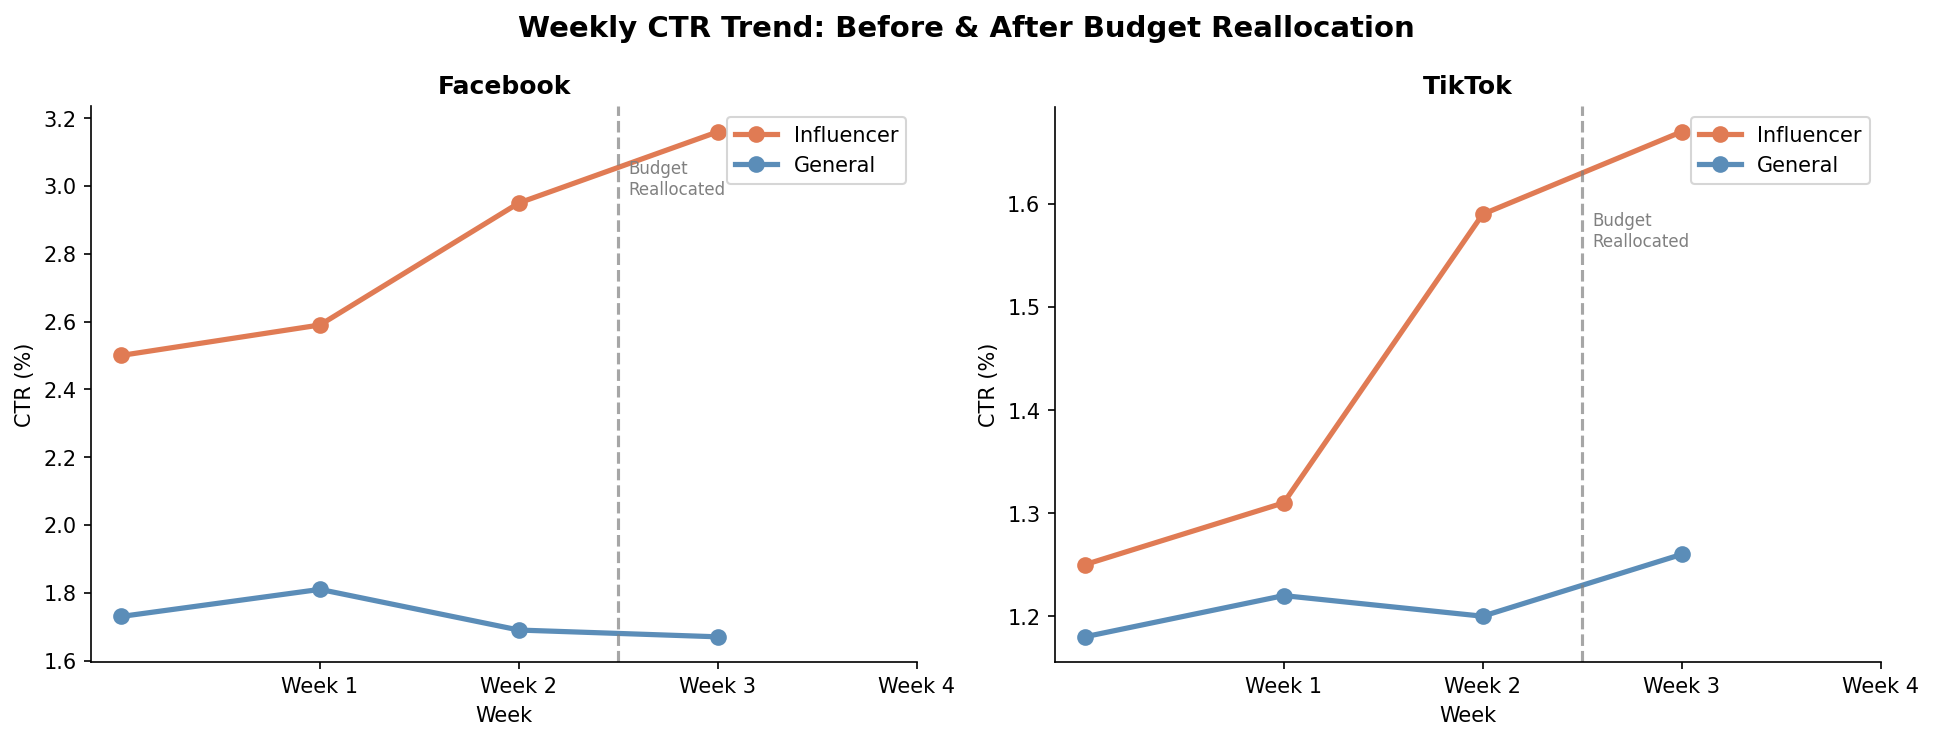
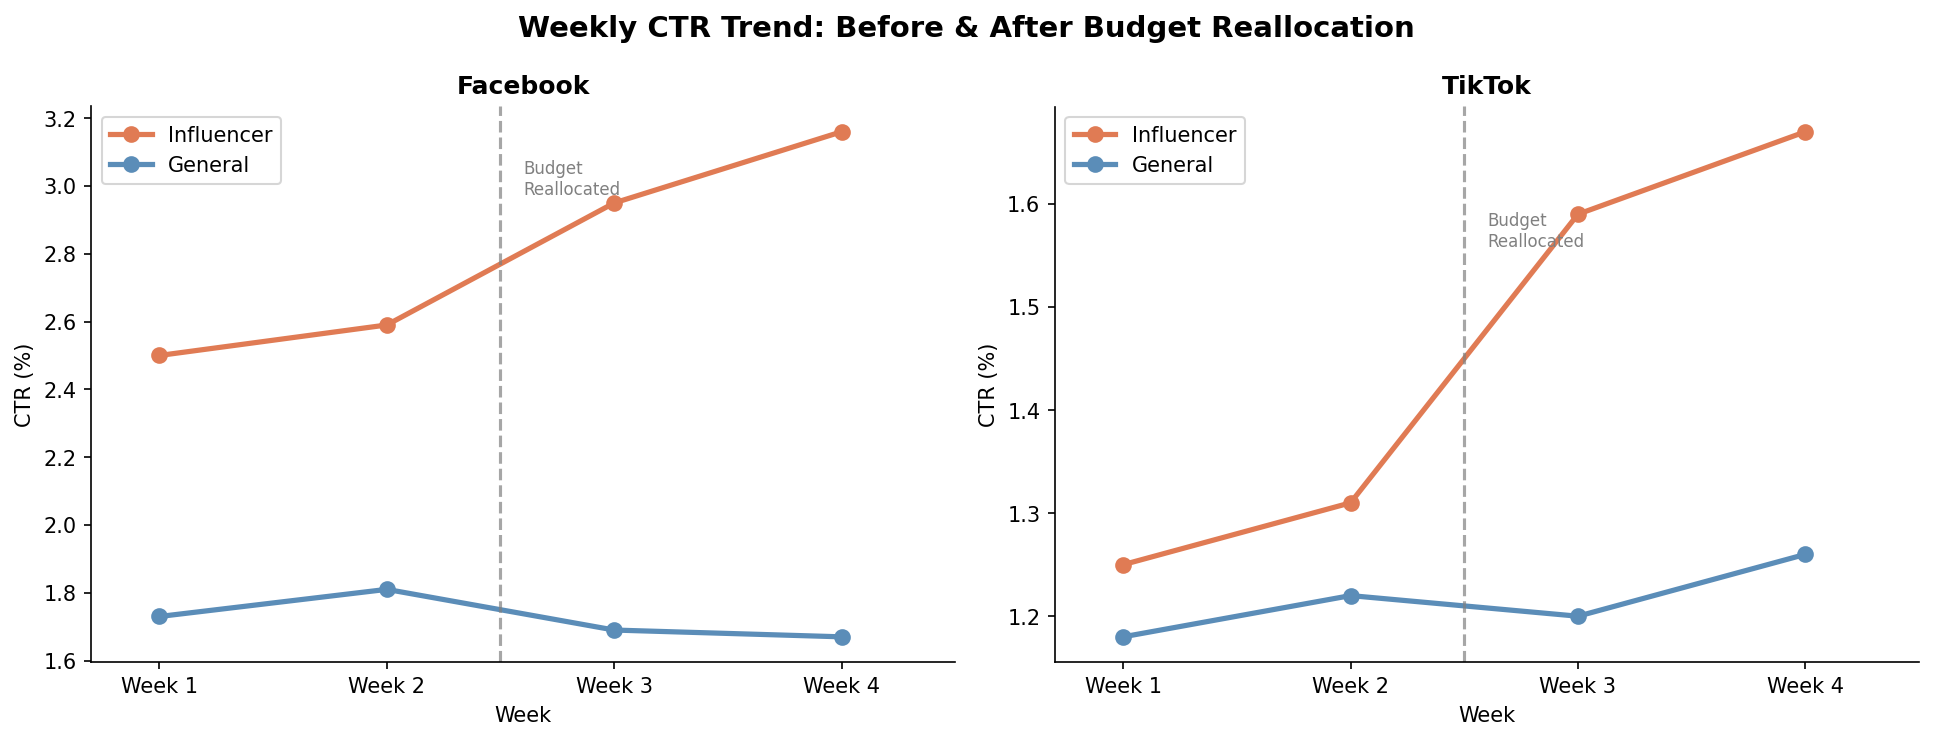
Update

diff --git a/analysis.py b/analysis.py
@@ -72,6 +72,7 @@ fig.suptitle('Weekly CTR Trend: Before & After Budget Reallocation', fontsize=14
 weekly = main_df.groupby(['platform', 'model_type', 'week']).agg(
     avg_ctr=('ctr', 'mean')
 ).reset_index()
+weekly['week'] = weekly['week'].astype(int)
 
 for ax, platform in zip(axes, ['Facebook', 'TikTok']):
     sub = weekly[weekly['platform'] == platform]
@@ -83,12 +84,13 @@ for ax, platform in zip(axes, ['Facebook', 'TikTok']):
 
     # 예산 재배분 시점 표시
     ax.axvline(x=2.5, color='gray', linestyle='--', linewidth=1.5, alpha=0.7)
-    ax.text(2.55, ax.get_ylim()[1] * 0.92 if ax.get_ylim()[1] > 0 else 3.5,
+    ax.text(2.6, ax.get_ylim()[1] * 0.92 if ax.get_ylim()[1] > 0 else 3.5,
             'Budget\nReallocated', fontsize=8, color='gray')
 
     ax.set_title(platform, fontsize=12, fontweight='bold')
     ax.set_xlabel('Week')
     ax.set_ylabel('CTR (%)')
+    ax.set_xlim(0.7, 4.5)
     ax.set_xticks([1, 2, 3, 4])
     ax.set_xticklabels(['Week 1', 'Week 2', 'Week 3', 'Week 4'])
     ax.legend()

diff --git a/README.md b/README.md
@@ -104,4 +104,4 @@ After Week 2 results confirmed influencer creatives were outperforming, budget w
 
 ## 💡 Reflection
 
-This project highlights that the most valuable part of data analysis is not only visualization, but the ability to ask the right questions and design meaningful experiments. Framing a clear hypothesis (influencer vs. general) forced me to design the experiment deliberately rather than just running ads and hoping something worked. The weekly trend analysis also showed me how iterative decision-making — adjusting budget based on mid-campaign data — is more effective than a set-and-forget approach. These are the habits I want to develop further as a data analyst.
+This project highlights that the most valuable part of data analysis is not only visualization, but the ability to ask the right questions and design meaningful experiments. Framing a clear hypothesis (influencer vs. general) forced me to design the experiment deliberately rather than just running ads and hoping something worked. The weekly trend analysis also showed me how iterative decision-making — adjusting budget based on mid-campaign data — is more effective than a set-and-forget approach. 
